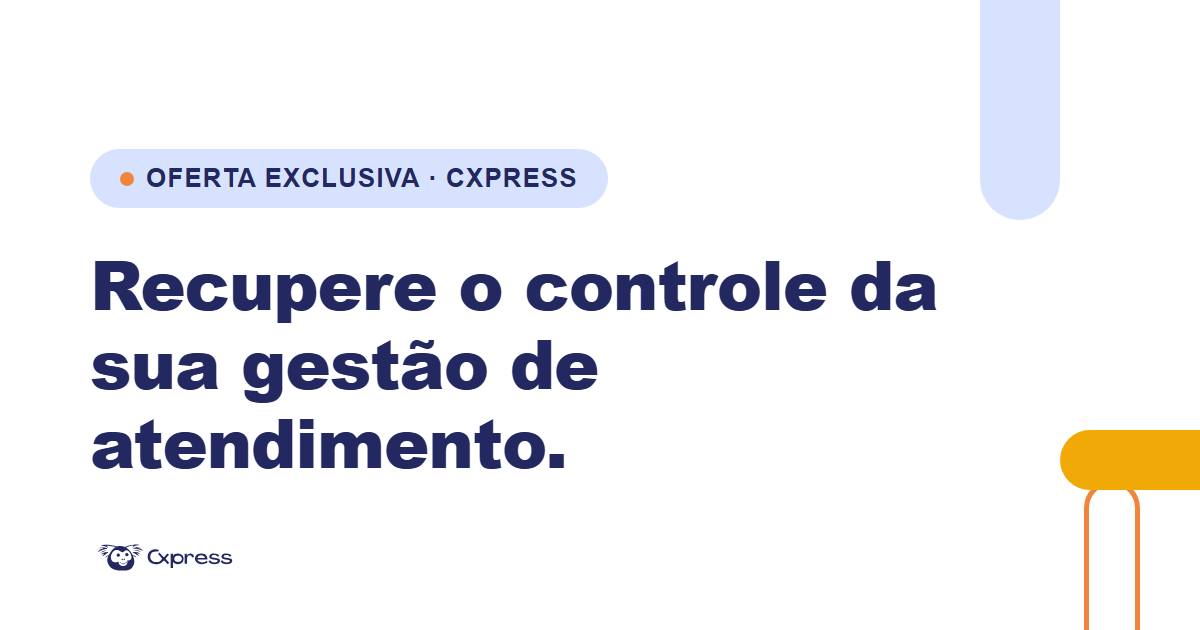
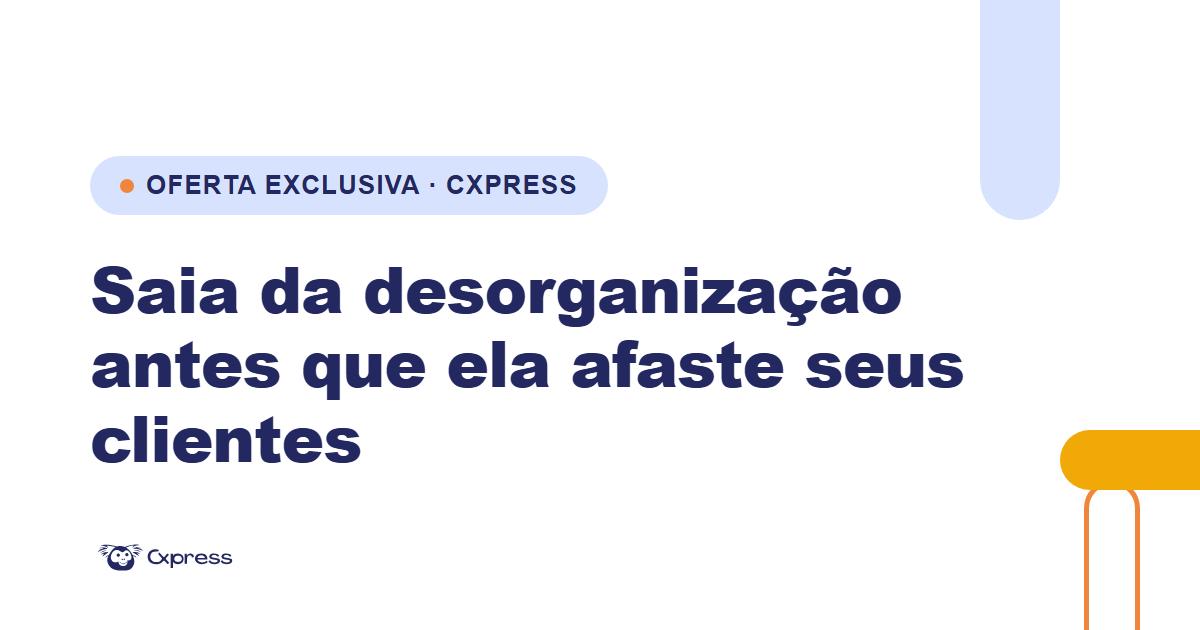
Atualizar hero e remover secoes Regra e O que voce perde da LP oferta-atendimento-metrica (#146)

diff --git a/landing-pages/cxpress/oferta-atendimento-metrica/index.html b/landing-pages/cxpress/oferta-atendimento-metrica/index.html
@@ -28,7 +28,7 @@ j=d.createElement(s),dl=l!='dataLayer'?'&l='+l:'';j.async=true;j.src=
 <meta property="og:image" content="https://content.cxpress.io/assets/cxpress/og-oferta-atendimento-metrica.png">
 <meta property="og:image:width" content="1200">
 <meta property="og:image:height" content="630">
-<meta property="og:image:alt" content="Cxpress: Recupere o controle da sua gestão de atendimento">
+<meta property="og:image:alt" content="Cxpress: Saia da desorganização antes que ela afaste seus clientes">
 
 <meta name="twitter:card" content="summary_large_image">
 <meta name="twitter:title" content="Atendimento sem Métrica: organize sua gestão com processo e dados">
@@ -214,41 +214,6 @@ j=d.createElement(s),dl=l!='dataLayer'?'&l='+l:'';j.async=true;j.src=
   .impact-source { font-family: var(--font-accent); font-style: italic; font-size: 13.5px; color: var(--neutral-700); margin-top: 18px; }
   @media (max-width: 900px) { .impact-grid { grid-template-columns: 1fr; } }
 
-  /* ============ PROBLEMA (lista vertical, X vermelho) ============ */
-  .problem-list { margin-top: 40px; display: flex; flex-direction: column; gap: 0; }
-  .problem-list li {
-    display: flex; align-items: flex-start; gap: 18px; padding: 20px 0;
-    border-bottom: 1px solid var(--neutral-300); font-size: 17.5px; color: var(--neutral-900); line-height: 1.5;
-  }
-  .problem-list li:first-child { padding-top: 0; }
-  .x-mark {
-    flex-shrink: 0; width: 30px; height: 30px; border-radius: 50%; background: rgba(225,75,75,0.1);
-    display: flex; align-items: center; justify-content: center; margin-top: 2px;
-  }
-  .x-mark svg { width: 14px; height: 14px; stroke: var(--danger); }
-  .problem-closer { margin-top: 32px; font-size: 18px; font-weight: 600; color: var(--primary-dark); }
-
-  /* ============ REGRA (dark section) ============ */
-  .rule-block { background: var(--primary-dark); color: var(--neutral-0); }
-  .rule-block h2 { color: var(--neutral-0); }
-  .rule-block h3 { color: var(--primary-lighter); font-size: 20px; font-weight: 600; margin-top: 10px; }
-  .rule-block .section-lede { color: rgba(255,255,255,.82); }
-  .rule-rows { margin-top: 40px; display: grid; gap: 18px; }
-  .rule-row {
-    display: flex; align-items: flex-start; gap: 18px; background: rgba(255,255,255,.06);
-    border: 1px solid rgba(255,255,255,.14); border-radius: 16px; padding: 24px;
-  }
-  .rule-row .badge {
-    flex-shrink: 0; width: 34px; height: 34px; border-radius: 50%; background: var(--warning);
-    color: var(--primary-darker); font-family: var(--font-heading); font-weight: 800; font-size: 15px;
-    display: flex; align-items: center; justify-content: center;
-  }
-  .rule-row p { font-size: 16.5px; line-height: 1.55; color: rgba(255,255,255,.94); }
-  .rule-closer { margin-top: 32px; font-size: 16.5px; color: rgba(255,255,255,.75); max-width: 60ch; }
-
-  /* ============ O QUE VOCE PERDE ============ */
-  .lose-header { max-width: 62ch; }
-
   /* ============ CARD DESTACADO ============ */
   .cnpj-card {
     margin-top: 40px; background: var(--primary-lighter); border-radius: 20px; padding: 44px;
@@ -322,8 +287,8 @@ height="0" width="0" style="display:none;visibility:hidden"></iframe></noscript>
       <div class="hero-grid">
         <div class="hero-content">
           <span class="hero-kicker"><span class="dot" aria-hidden="true"></span>Oferta exclusiva</span>
-          <h1>Recupere o controle da sua gestão de atendimento.</h1>
-          <p class="hero-body">Sem números confiáveis, ninguém sabe se a operação está sob controle, até dar errado. Veja como organizar processo e métricas do seu time a partir das conversas que já acontecem todos os dias.</p>
+          <h1>Saia da desorganização antes que ela afaste seus clientes</h1>
+          <p class="hero-body">Agende uma avaliação gratuita com um especialista da Cxpress e descubra onde estão os principais riscos e como estruturar sua equipe para atender com mais eficiência.</p>
         </div>
 
         <div class="hero-form-wrap">
@@ -387,44 +352,6 @@ height="0" width="0" style="display:none;visibility:hidden"></iframe></noscript>
         <p class="figure-label figure-label--emphasis">dos brasileiros dizem estar plenamente satisfeitos com o atendimento que recebem.</p>
         <p class="impact-source">Instituto Hibou, 2020.</p>
       </div>
-    </div>
-  </section>
-
-  <!-- ============ REGRA (dark, unica secao escura) ============ -->
-  <section class="block rule-block reveal">
-    <div class="container">
-      <h2 class="section-h2">Não é falta de esforço. É falta de processo.</h2>
-      <h3>Como sair do escuro e recuperar o controle da sua gestão de atendimento, com métricas e processo de atendimento.</h3>
-      <p class="section-lede">Para a Cxpress, atendimento sem indicador não é atendimento ruim. É atendimento que ninguém está enxergando.</p>
-      <div class="rule-rows">
-        <div class="rule-row">
-          <span class="badge" aria-hidden="true">1</span>
-          <p>Sem indicadores, cada atendente decide sozinho o que é &ldquo;atender bem&rdquo;. E cada um decide diferente.</p>
-        </div>
-        <div class="rule-row">
-          <span class="badge" aria-hidden="true">2</span>
-          <p>Sem processo definido, a experiência do cliente muda dependendo de quem responde no dia.</p>
-        </div>
-      </div>
-      <p class="rule-closer">No escuro, a gestão reage depois que o cliente já reclamou.</p>
-    </div>
-  </section>
-
-  <!-- ============ O QUE VOCE PERDE (problema: lista vertical, X vermelho) ============ -->
-  <section class="block reveal">
-    <div class="container">
-      <div class="lose-header">
-        <h2 class="section-h2">O custo de não medir vai muito além do relatório que falta</h2>
-        <h3 style="font-size:19px; font-weight:600; color:var(--neutral-700); margin-top:14px;">Sem visibilidade sobre o atendimento, a gestão perde:</h3>
-      </div>
-      <ul class="problem-list">
-        <li><span class="x-mark" aria-hidden="true"><svg viewBox="0 0 24 24" fill="none" stroke-width="4" stroke-linecap="round"><line x1="6" y1="6" x2="18" y2="18"/><line x1="18" y1="6" x2="6" y2="18"/></svg></span><span>O tempo real de resposta: sem dado, ninguém sabe se o cliente espera 2 minutos ou 2 horas.</span></li>
-        <li><span class="x-mark" aria-hidden="true"><svg viewBox="0 0 24 24" fill="none" stroke-width="4" stroke-linecap="round"><line x1="6" y1="6" x2="18" y2="18"/><line x1="18" y1="6" x2="6" y2="18"/></svg></span><span>A qualidade por atendente: bons e maus atendimentos ficam misturados na mesma média invisível.</span></li>
-        <li><span class="x-mark" aria-hidden="true"><svg viewBox="0 0 24 24" fill="none" stroke-width="4" stroke-linecap="round"><line x1="6" y1="6" x2="18" y2="18"/><line x1="18" y1="6" x2="6" y2="18"/></svg></span><span>O motivo dos cancelamentos: quando o cliente sai insatisfeito, a causa raiz nunca chega ao gestor.</span></li>
-        <li><span class="x-mark" aria-hidden="true"><svg viewBox="0 0 24 24" fill="none" stroke-width="4" stroke-linecap="round"><line x1="6" y1="6" x2="18" y2="18"/><line x1="18" y1="6" x2="6" y2="18"/></svg></span><span>O histórico do cliente: cada atendente reconta a mesma história porque ninguém enxerga a conversa anterior.</span></li>
-        <li><span class="x-mark" aria-hidden="true"><svg viewBox="0 0 24 24" fill="none" stroke-width="4" stroke-linecap="round"><line x1="6" y1="6" x2="18" y2="18"/><line x1="18" y1="6" x2="6" y2="18"/></svg></span><span>O momento de agir: sem indicador, o problema só aparece quando já virou reclamação pública.</span></li>
-      </ul>
-      <p class="problem-closer">Sem métrica, o problema anda um passo à frente da gestão.</p>
     </div>
   </section>
 

diff --git a/landing-pages/cxpress/oferta-atendimento-metrica/REVISAO.md b/landing-pages/cxpress/oferta-atendimento-metrica/REVISAO.md
@@ -19,6 +19,15 @@
 
 Nenhum achado estilistico alem do que ja e padrao herdado da LP-referencia (`oferta-whatsapp-comercial-bloqueado`), ja validada em producao.
 
+## Atualizacao 2026-07-31 (pos-publicacao, a pedido do usuario)
+
+- H1/SUB trocados novamente: "Saia da desorganização antes que ela afaste seus clientes" (sem ponto final) + novo subtitulo convidando para avaliacao gratuita com especialista.
+- Secao REGRA ("Não é falta de esforço. É falta de processo.") removida.
+- Secao O QUE VOCE PERDE ("O custo de não medir vai muito além do relatório que falta") removida.
+- CSS orfao das duas secoes removido do `<style>` (`.rule-block`, `.rule-rows`, `.rule-row`, `.problem-list`, `.x-mark`, `.problem-closer`, `.lose-header`).
+- OG image regerada com o H1 novo. `og:image:alt` atualizado.
+- Build + GTM gate revalidados limpos apos as mudancas.
+
 ## Notas de escopo
 
 - Estrutura clonada 1:1 da LP `oferta-whatsapp-comercial-bloqueado` (mesmo CSS, mesma ordem de secoes) a pedido explicito do usuario — nao passou por `/lp-gerar` (frontend-design generativo), e sim clone + adaptacao de copy, mesmo padrao ja usado em `whatsapp-business-smb-pt`.
